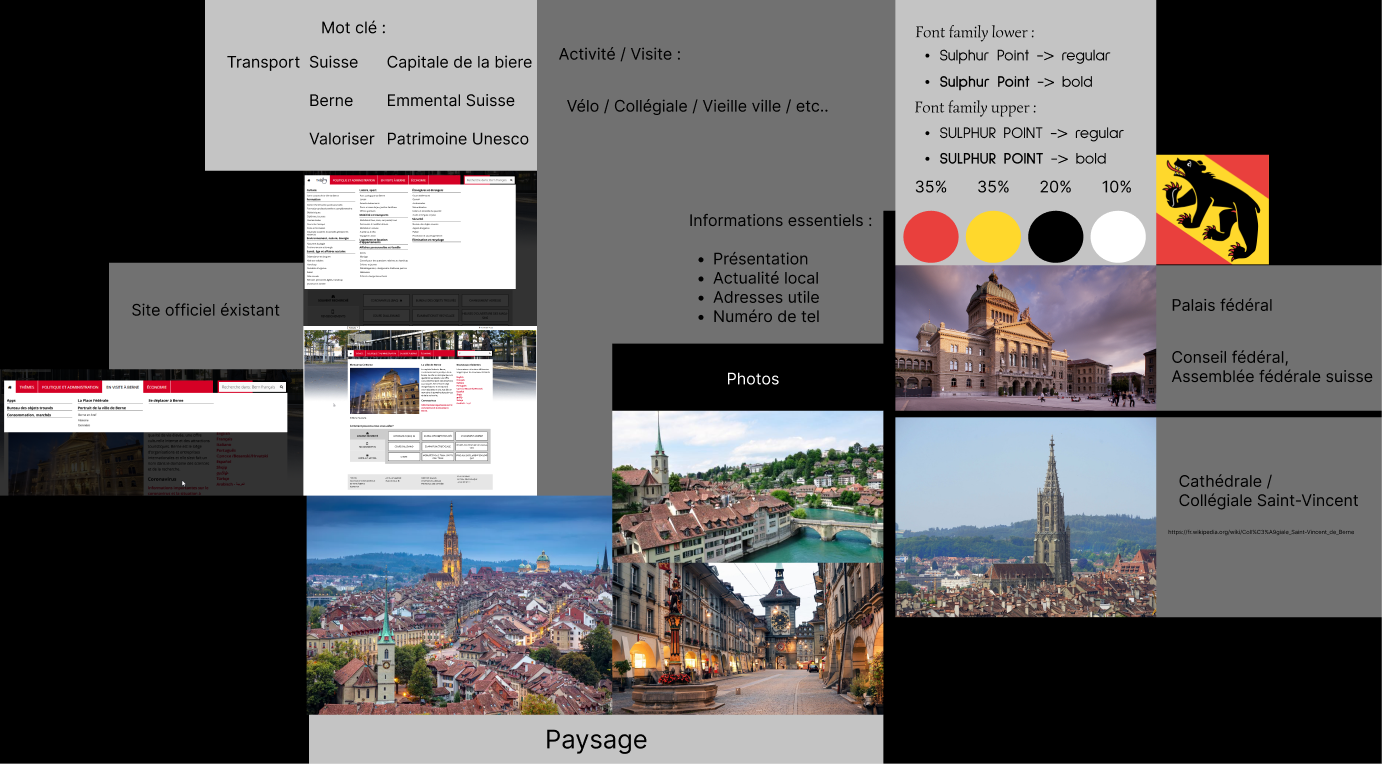
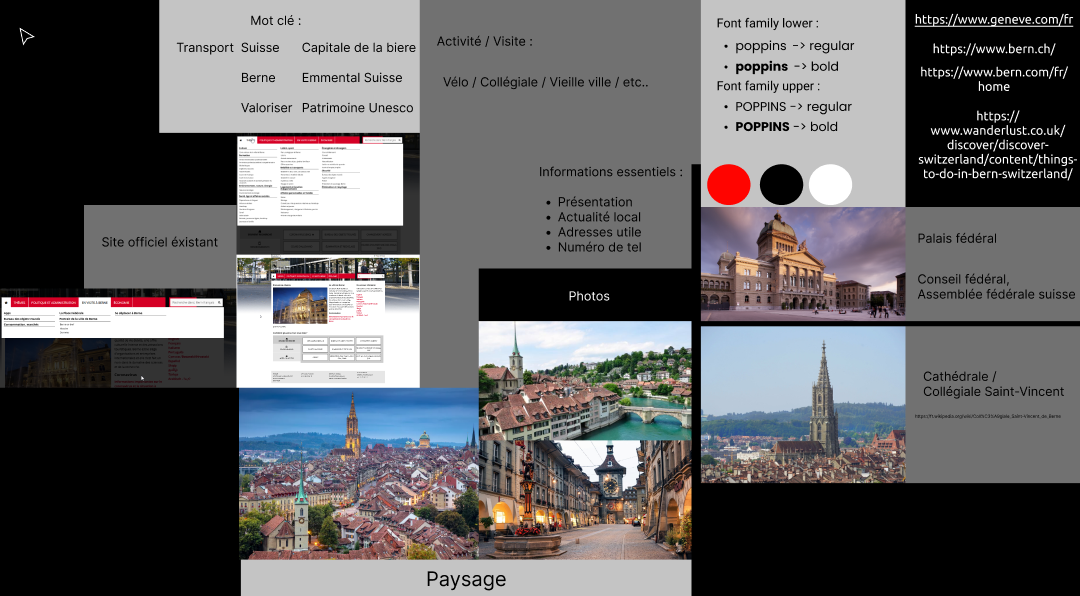
Added HF design

diff --git a/README.md b/README.md
@@ -16,6 +16,14 @@
 >>- Couleurs
 >>- Polices
 >>- Présentation en image
+>- WireFrame
+>>- Header
+>>- Content
+>>- Footer
+>- HighFidelity
+>>- Header
+>>- Content
+>>- Footer
 ----------
 ## L'idée
 >## La Suisse
@@ -58,11 +66,24 @@
 > ## Moodboard
 >> ### Couleurs :
 >>> <img src="img/clr.png" alt="Couleurs du site"> <br>
-
->>> **Pourquoi ces couleurs ? ...** Car ces couleurs font références au blason de berne et les pourcentages représente la quantitée qui sera utilisé sur le site final <br> <br> <img src="img/blason.png" alt="Blason berne">
+>>> **Pourquoi?** J'ai opté pour des couleurs simple pour que ce soit agréable a l'oeuil et valoriser l'aspect moderne
 >> ### Polices :
 >>>  <img src="img/polices.png" alt="Polices du site"> <br>
 >>>Sulphur point
 >> ### Présentation du moodboard : 
 >>> <img src="img/moodboard.png" alt="Polices du site"> <br>
+> ## Wireframe
+>> ### Header :
+>>> <img src="img/Design-Desktop-3-Header.png" alt="Haut de page du site">
+>> ### Content :
+>>> <img src="img/Design-Desktop-3-Content.png" alt="Contenue du site">
+>> ### Footer :
+>>> <img src="img/Design-Desktop-3-Footer.png" alt="Bas de page du site">
 ----
+> ## HighFidelity
+>> ### Header :
+>>> <img src="img/HighFidelity-Desktop-3-Header.png" alt="Haut de page du site">
+>> ### Content :
+>>> <img src="img/HighFidelity-Desktop-3-Content.png" alt="Contenue du site">
+>> ### Footer :
+>>> <img src="img/HighFidelity-Desktop-3-Footer.png" alt="Bas de page du site">
